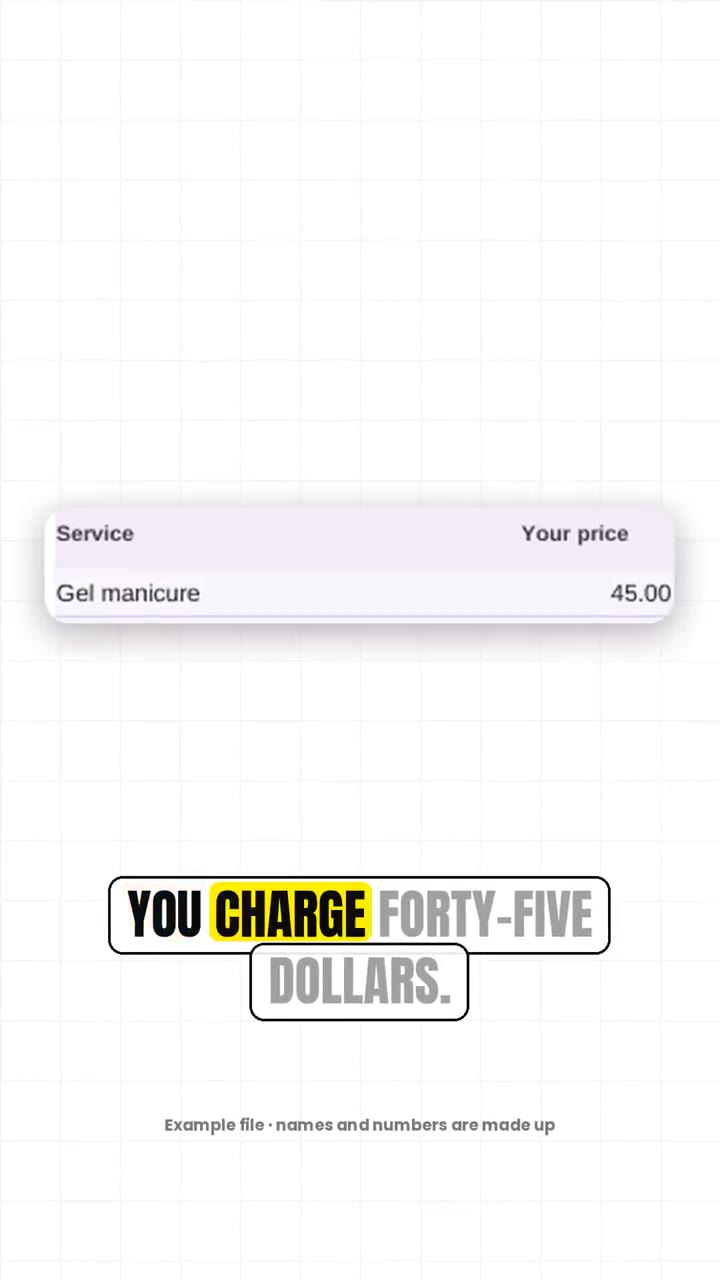
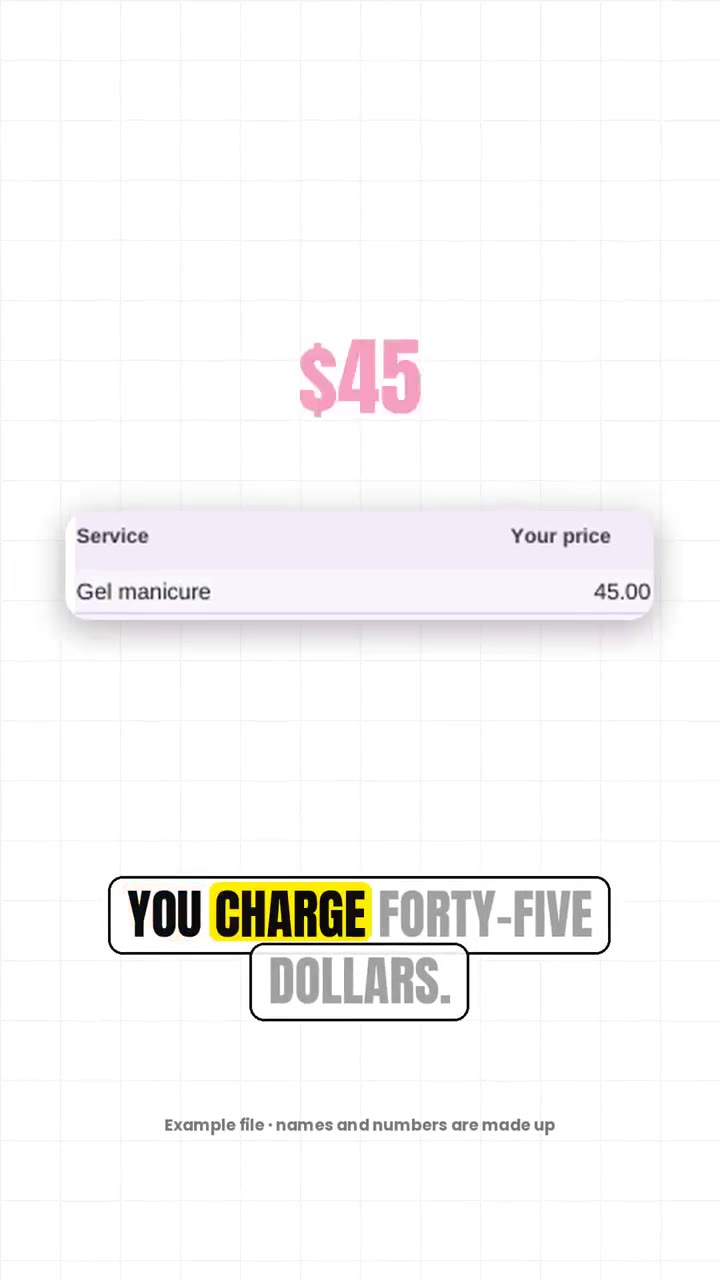
Add files via upload

Changed region(s): [[0.0306, 0.4062, 0.9778, 0.5], [0.3972, 0.25, 0.5806, 0.3438]]

diff --git a/index.html b/index.html
@@ -142,6 +142,30 @@ footer .wrap{display:flex;flex-wrap:wrap;gap:18px;justify-content:space-between;
 footer img{height:22px}
 footer a{color:#fff}
 .sticky{display:none}
+
+/* calculator */
+.calc{display:grid;grid-template-columns:1fr 1fr;gap:0;max-width:980px;margin:44px auto 0;border-radius:26px;overflow:hidden;box-shadow:0 30px 70px rgba(0,0,0,.4);border:1px solid rgba(201,168,106,.35)}
+.calc .in{background:var(--plum2);padding:32px}
+.calc .out{background:#fff;color:var(--ink);padding:32px;display:flex;flex-direction:column}
+.calc label{display:block;font-size:14px;font-weight:700;color:var(--soft);margin:0 0 6px}
+.calc .row{display:grid;grid-template-columns:1fr 1fr;gap:14px;margin-bottom:16px}
+.calc input,.calc select{width:100%;background:#fff;color:var(--ink);border:2px solid #E3D6EA;border-radius:12px;padding:12px 14px;font-size:17px;font-weight:700;font-family:inherit}
+.calc input:focus,.calc select:focus{outline:none;border-color:var(--gold)}
+.calc .hint{font-size:12.5px;color:#9F8FB0;margin-top:4px}
+.res{display:flex;justify-content:space-between;align-items:baseline;padding:12px 0;border-bottom:1px solid #F0E8F3;font-size:16px}
+.res b{font-size:22px;font-family:Georgia,serif}
+.verdict{margin:18px 0;padding:16px 18px;border-radius:14px;font-weight:700;font-size:16px;line-height:1.4}
+.verdict.bad{background:#FCE8EF;color:#8E1F4F}.verdict.ok{background:#E3F4EE;color:#1F5E4F}
+.calc .out .btn{margin-top:auto}
+.fit{display:grid;grid-template-columns:1fr 1fr;gap:22px;margin-top:44px;max-width:980px;margin-left:auto;margin-right:auto}
+.fit .card ul{list-style:none;margin-top:12px}
+.fit .card li{padding:8px 0 8px 30px;position:relative}
+.fit .yes li:before{content:"";position:absolute;left:2px;top:14px;width:14px;height:8px;border-left:3px solid var(--gold);border-bottom:3px solid var(--gold);transform:rotate(-45deg)}
+.fit .no li:before{content:"×";position:absolute;left:4px;top:3px;color:#C4B8CC;font-size:22px;font-weight:700}
+.promise{display:flex;gap:16px;align-items:flex-start;max-width:940px;margin:28px auto 0;background:#fff;border:2px solid var(--gold);border-radius:20px;padding:22px 26px;color:var(--ink)}
+.promise .seal{flex:none;width:52px;height:52px;border-radius:50%;background:var(--plum);color:var(--gold);display:flex;align-items:center;justify-content:center;font-weight:900;font-size:24px}
+.promise p{color:var(--mute);margin-top:4px}
+@media (max-width:900px){.calc,.fit{grid-template-columns:1fr}.calc .in,.calc .out{padding:24px}}
 @media (max-width:900px){
  nav .links{display:none}
  .hero{padding:34px 0 64px}
@@ -167,7 +191,7 @@ footer a{color:#fff}
 
 <nav><div class="wrap">
  <img src="wordmark_dark.png" alt="studiomargin" width="142" height="26">
- <div class="links"><a href="#how">How it works</a><a href="#compare">Compare</a><a href="#faq">FAQ</a><a href="mailto:studiomargin.help@gmail.com">Help</a></div>
+ <div class="links"><a href="#calculator">Price check</a><a href="#how">How it works</a><a href="#compare">Compare</a><a href="#faq">FAQ</a><a href="mailto:studiomargin.help@gmail.com">Help</a></div>
  <a class="btn btn-gold" href="#pricing">Get the planner</a>
 </div></nav>
 
@@ -201,6 +225,39 @@ footer a{color:#fff}
   <div class="card"><div class="num">01</div><h3 style="margin-top:10px">Guessing your prices</h3><p>You copied what others charge but never counted products, your time and rent.</p></div>
   <div class="card"><div class="num">02</div><h3 style="margin-top:10px">Money in, money out</h3><p>Plenty goes through your hands. What you actually kept is a mystery.</p></div>
   <div class="card"><div class="num">03</div><h3 style="margin-top:10px">Regulars slip away</h3><p>Clients forget to rebook, and you only notice when the diary goes quiet.</p></div>
+ </div>
+</div></section>
+
+
+<section id="calculator" style="background:var(--plum2)"><div class="wrap">
+ <div class="center">
+  <div class="kicker">Free price check</div>
+  <h2 style="margin-top:12px">Is your price <span class="gold">really</span> paying you?</h2>
+  <p class="sub">Try one service now. The planner does this for every service you offer.</p>
+ </div>
+ <div class="calc">
+  <div class="in">
+   <div class="row"><div><label for="cPrice">Your price</label><input id="cPrice" type="number" inputmode="decimal" min="0" value="45"></div>
+    <div><label for="cCur">Currency</label><select id="cCur"><option value="$">$ USD</option><option value="£">£ GBP</option><option value="€">€ EUR</option><option value="A$">A$ AUD</option><option value="C$">C$ CAD</option><option value="AED ">AED</option><option value="SAR ">SAR</option><option value="EGP ">EGP</option></select></div></div>
+   <div class="row"><div><label for="cMin">Minutes it takes</label><input id="cMin" type="number" inputmode="numeric" min="1" value="60"></div>
+    <div><label for="cProd">Product cost</label><input id="cProd" type="number" inputmode="decimal" min="0" value="6"><div class="hint">Gel, lashes, foundation…</div></div></div>
+   <div class="row"><div><label for="cPay">Hourly pay you want</label><input id="cPay" type="number" inputmode="decimal" min="0" value="25"></div>
+    <div><label for="cOver">Overhead per hour</label><input id="cOver" type="number" inputmode="decimal" min="0" value="6"><div class="hint">Rent, apps, insurance ÷ hours</div></div></div>
+   <div class="row" style="margin-bottom:0"><div><label for="cMar">Profit margin %</label><input id="cMar" type="number" inputmode="decimal" min="0" max="90" value="20"></div><div></div></div>
+  </div>
+  <div class="out">
+   <div class="res"><span>Real cost</span><b id="oCost">–</b></div>
+   <div class="res"><span>Suggested price</span><b id="oSug">–</b></div>
+   <div class="res"><span>You keep per hour</span><b id="oKeep">–</b></div>
+   <div class="verdict" id="oVer">–</div>
+   <a class="btn btn-gold" href="#pricing">Check every service <small>from $15</small></a>
+   <div class="cap" style="color:#8a8090">Same maths as the planner: real cost = products + your pay for the time + overhead. Before tax.</div>
+  </div>
+ </div>
+
+ <div class="fit">
+  <div class="card yes"><h3>Made for you if…</h3><ul><li>You're a solo nail tech, makeup artist, or lash or brow artist</li><li>You're busy but unsure what you actually keep</li><li>You want simple pages, not accounting software</li></ul></div>
+  <div class="card no"><h3>Not for you if…</h3><ul><li>You run a salon with staff and payroll</li><li>You need full bookkeeping or tax filing</li><li>You want a booking app (it works alongside yours)</li></ul></div>
  </div>
 </div></section>
 
@@ -339,6 +396,8 @@ footer a{color:#fff}
   </div>
  </div>
  <p class="fine">Secure checkout by Gumroad · Prices in USD</p>
+ <div class="promise"><div class="seal">✓</div><div><b>Our promise</b><p>If something's wrong with your spreadsheet, email us and we'll fix it. If we can't fix it, we'll refund you in full.</p></div></div>
+
 
  <div id="compare" class="center" style="margin-top:96px">
   <div class="kicker">Compare</div>
@@ -393,6 +452,7 @@ footer a{color:#fff}
   <details><summary>Which should I choose?</summary><p>Starter if you want pricing, appointments, clients and your monthly profit. Complete if you also want stock alerts, an income-goal planner, a tax-time year page, the Instagram price list and the example file.</p></details>
   <details><summary>Which currency does it use?</summary><p>Pick from 25 currencies, or type your own code. Checkout is in USD.</p></details>
   <details><summary>Does it work for lashes, brows or hair?</summary><p>Yes. Type any service with its minutes and price. The examples are for nails and makeup.</p></details>
+  <details><summary>What if something doesn't work?</summary><p>Email studiomargin.help@gmail.com. We'll fix it, and if we can't, we'll refund you in full.</p></details>
   <details><summary>Is this tax or financial advice?</summary><p>No. It's a planning tool to help you see your numbers. Speak to an accountant for tax.</p></details>
  </div>
 
@@ -427,6 +487,21 @@ footer a{color:#fff}
  var st=document.querySelector('.sticky'),pr=document.getElementById('pricing');
  function ck(){var r=pr.getBoundingClientRect();st.classList.toggle('show',window.scrollY>700&&!(r.top<window.innerHeight&&r.bottom>0));}
  window.addEventListener('scroll',ck,{passive:true});ck();
+
+ (function(){var $=function(i){return document.getElementById(i)};
+  function f(n,c){return c+(Math.round(n*100)/100).toFixed(2)}
+  function calc(){var P=+$('cPrice').value||0,M=+$('cMin').value||0,PR=+$('cProd').value||0,H=+$('cPay').value||0,O=+$('cOver').value||0,G=Math.min(+$('cMar').value||0,90)/100,c=$('cCur').value;
+   var h=M/60,cost=PR+H*h+O*h,sug=cost/(1-G),keep=h>0?(P-PR-O*h)/h:0;
+   $('oCost').textContent=f(cost,c);$('oSug').textContent=f(sug,c);$('oKeep').textContent=f(keep,c);
+   var v=$('oVer');
+   if(!M){v.className='verdict';v.textContent='Add the minutes to see your result.';return}
+   if(P+0.005<sug){v.className='verdict bad';v.textContent='Below target: you\'re about '+f(sug-P,c)+' short per appointment. Try '+f(sug,c)+'.'}
+   else{v.className='verdict ok';v.textContent='On target: this price covers your pay, overhead and margin.'}}
+  ['cPrice','cMin','cProd','cPay','cOver','cMar','cCur'].forEach(function(i){$(i).addEventListener('input',calc)});calc();
+ })();
+ // muted preview skips the slow opening; tap for sound restarts from the start
+ v.addEventListener('loadedmetadata',function(){if(v.muted)v.currentTime=4.2});
+ v.addEventListener('timeupdate',function(){if(v.muted&&v.currentTime<4)v.currentTime=4.2});
 })();
 </script>
 </body>
